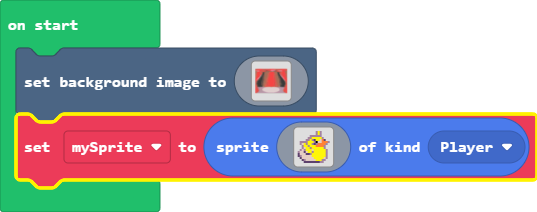
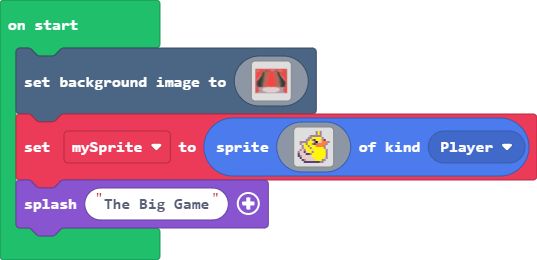
Added splash screen

diff --git a/main.ts b/main.ts
@@ -138,3 +138,4 @@ let mySprite = sprites.create(img`
     . . c b d d d d d 5 5 5 b b . . 
     . . . c c c c c c c c b b . . . 
     `, SpriteKind.Player)
+game.splash("The Big Game")
